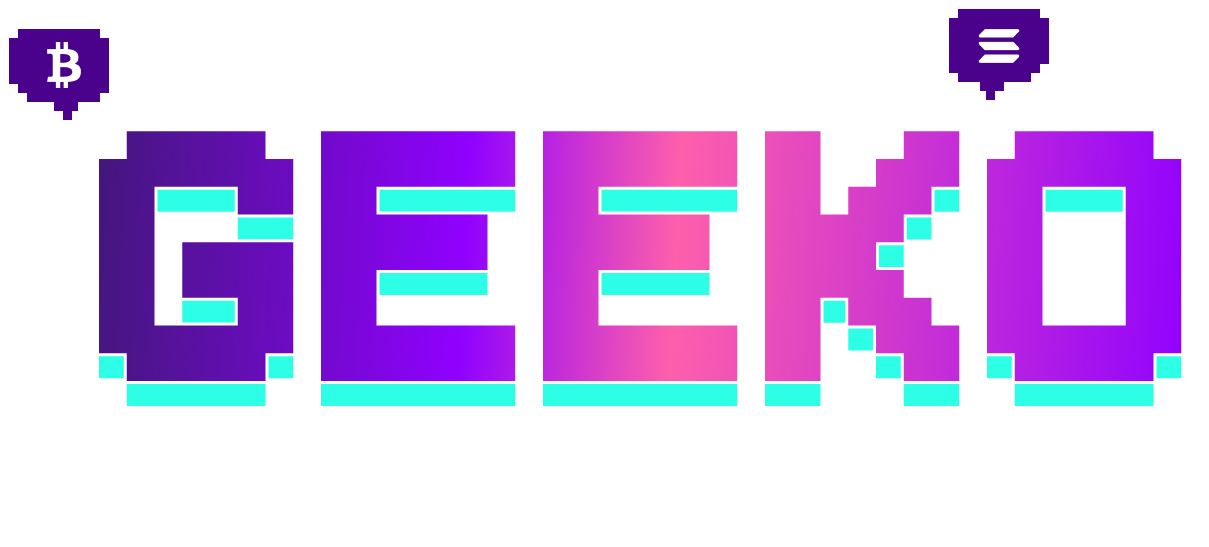
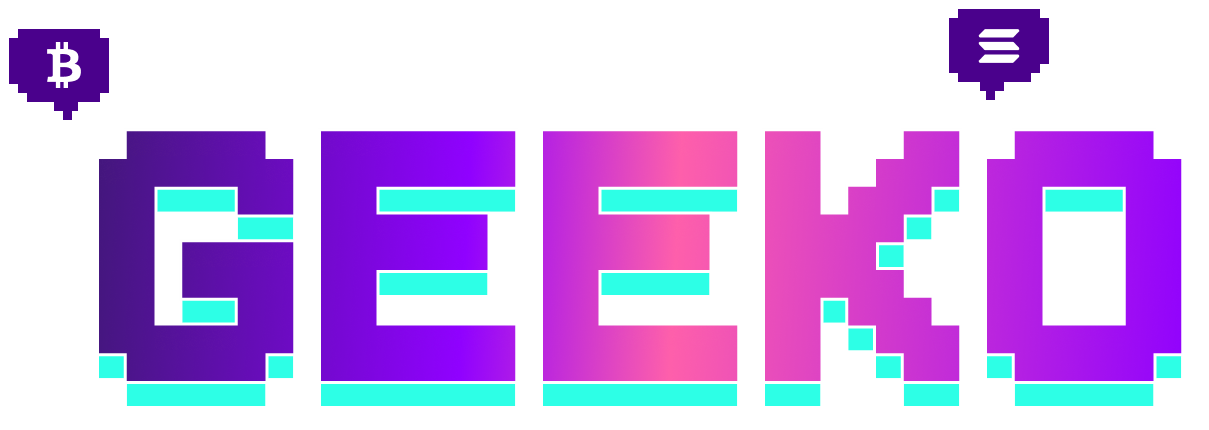
new

diff --git a/src/components/Hero.jsx b/src/components/Hero.jsx
@@ -8,8 +8,11 @@ function Hero() {
         <img
           src="images/gekotxt.png"
           alt=""
-          className=" relative z-50 pt-[50%] sm:pt-[15%]"
+          className=" relative z-50 pt-[50%] sm:pt-[13%]"
         />
+        <h2 className=" text-center relative z-40 text-5xl">
+        One Stop Crypto Platform
+        </h2>
       </div>
     </section>
   );
